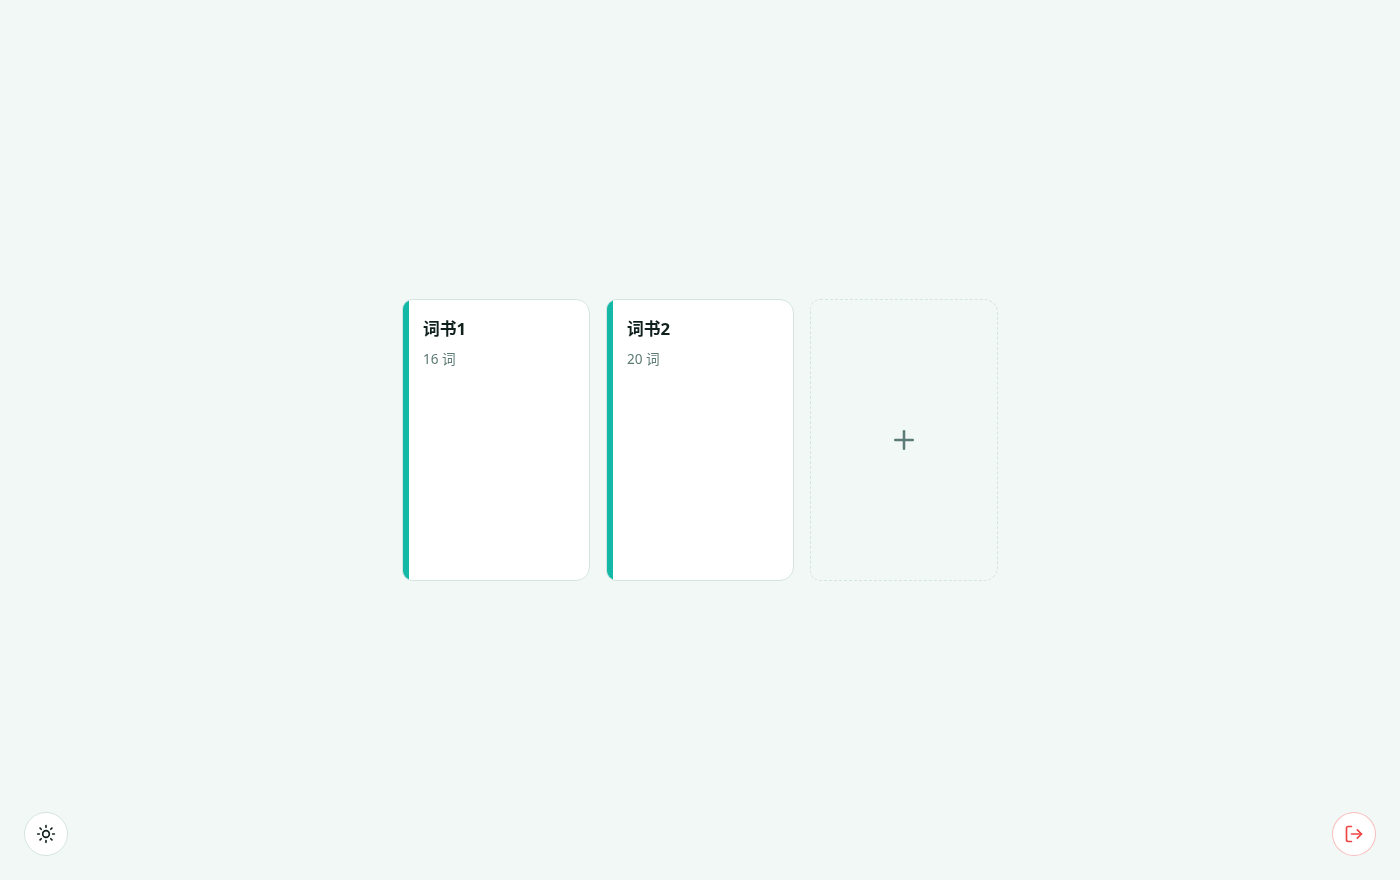
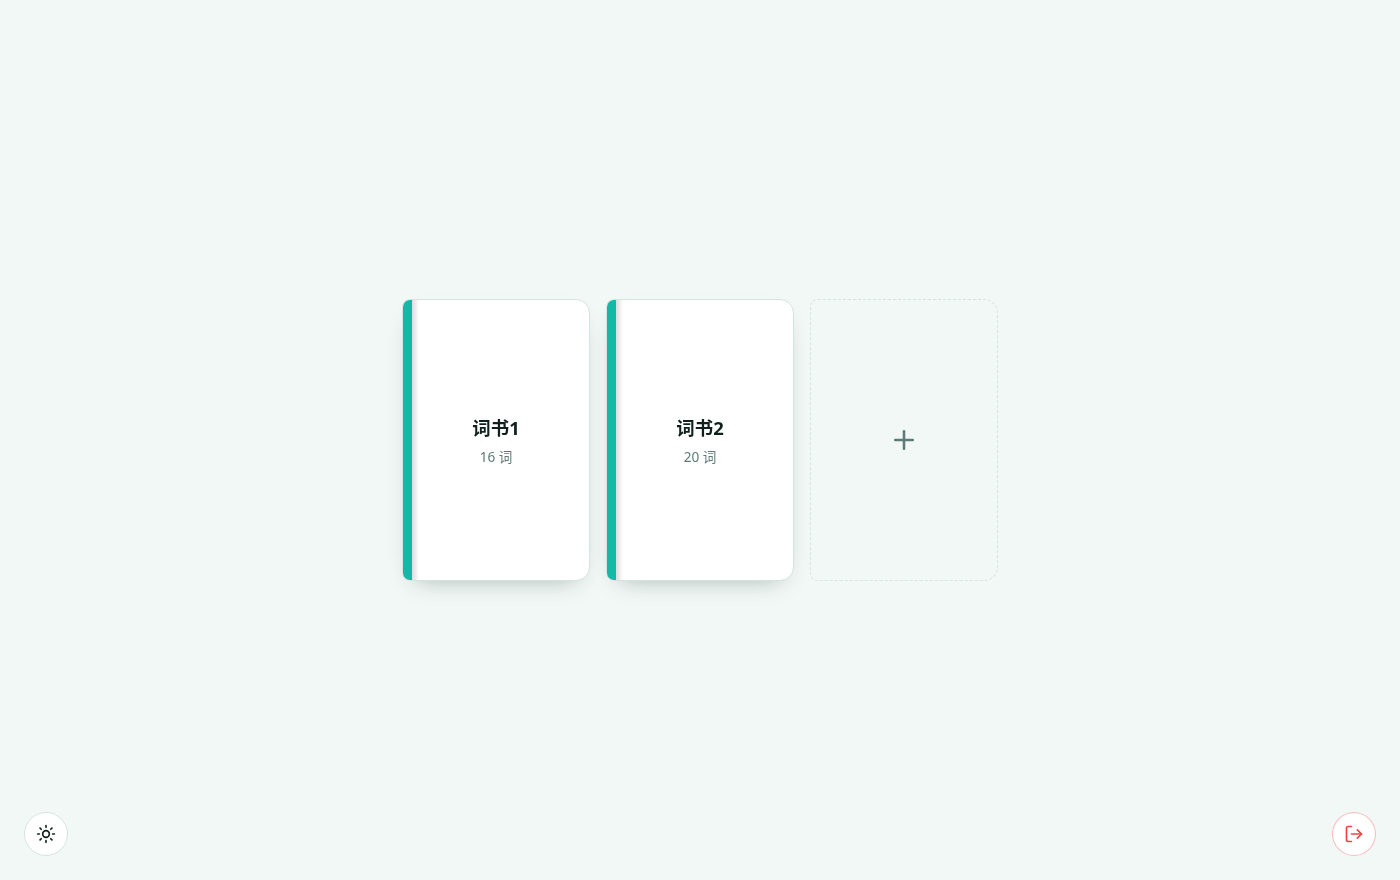
style: 词书卡片更像「书」
- 书名/词数改为水平+垂直居中(书封面标题位)
- 默认加淡投影，不再平贴背景；hover 阴影加强
- 书脊 6px → 9px，并加内侧渐隐做装订厚度
- 圆角改左小(8px)右大(14px)
- 虚线空框去掉投影
- 同步更新 docs/home.png

diff --git a/src/index.css b/src/index.css
@@ -546,16 +546,20 @@ kbd {
   aspect-ratio: 2 / 3;
   display: flex;
   flex-direction: column;
-  gap: 8px;
-  padding: 16px 14px 14px 20px;
+  align-items: center;
+  justify-content: center;
+  gap: 6px;
+  padding: 20px 16px;
   border: 1px solid var(--border);
-  border-radius: 10px 14px 14px 10px;
+  border-radius: 8px 14px 14px 8px;
   background: var(--card);
   color: var(--text);
-  text-align: left;
+  text-align: center;
   font: inherit;
   cursor: pointer;
   overflow: hidden;
+  /* 默认淡投影，让书浮起来 */
+  box-shadow: 0 10px 24px -14px rgba(15, 40, 35, 0.4);
   transition: transform 180ms ease, box-shadow 180ms ease,
     border-color 180ms ease, color 180ms ease;
 }
@@ -565,15 +569,26 @@ kbd {
   content: '';
   position: absolute;
   inset: 0 auto 0 0;
-  width: 6px;
+  width: 9px;
   background: var(--accent);
+}
+
+/* 书脊内侧的渐隐，做出装订厚度 */
+.book::after {
+  content: '';
+  position: absolute;
+  inset: 0 auto 0 9px;
+  width: 7px;
+  background: linear-gradient(90deg, rgba(0, 0, 0, 0.14), transparent);
+  pointer-events: none;
 }
 
 .book:hover,
 .book-item:hover .book {
   transform: translateY(-3px);
   border-color: var(--accent);
-  box-shadow: 0 14px 36px -12px var(--accent-ring);
+  box-shadow: 0 18px 38px -14px var(--accent-ring),
+    0 8px 18px -10px rgba(15, 40, 35, 0.3);
 }
 
 .book:focus-visible {
@@ -582,7 +597,7 @@ kbd {
 }
 
 .book-title {
-  font-size: 1.05rem;
+  font-size: 1.15rem;
   font-weight: 700;
 }
 
@@ -599,9 +614,11 @@ kbd {
   border-style: dashed;
   background: transparent;
   color: var(--muted);
+  box-shadow: none;
 }
 
-.book-add::before {
+.book-add::before,
+.book-add::after {
   display: none;
 }
 
